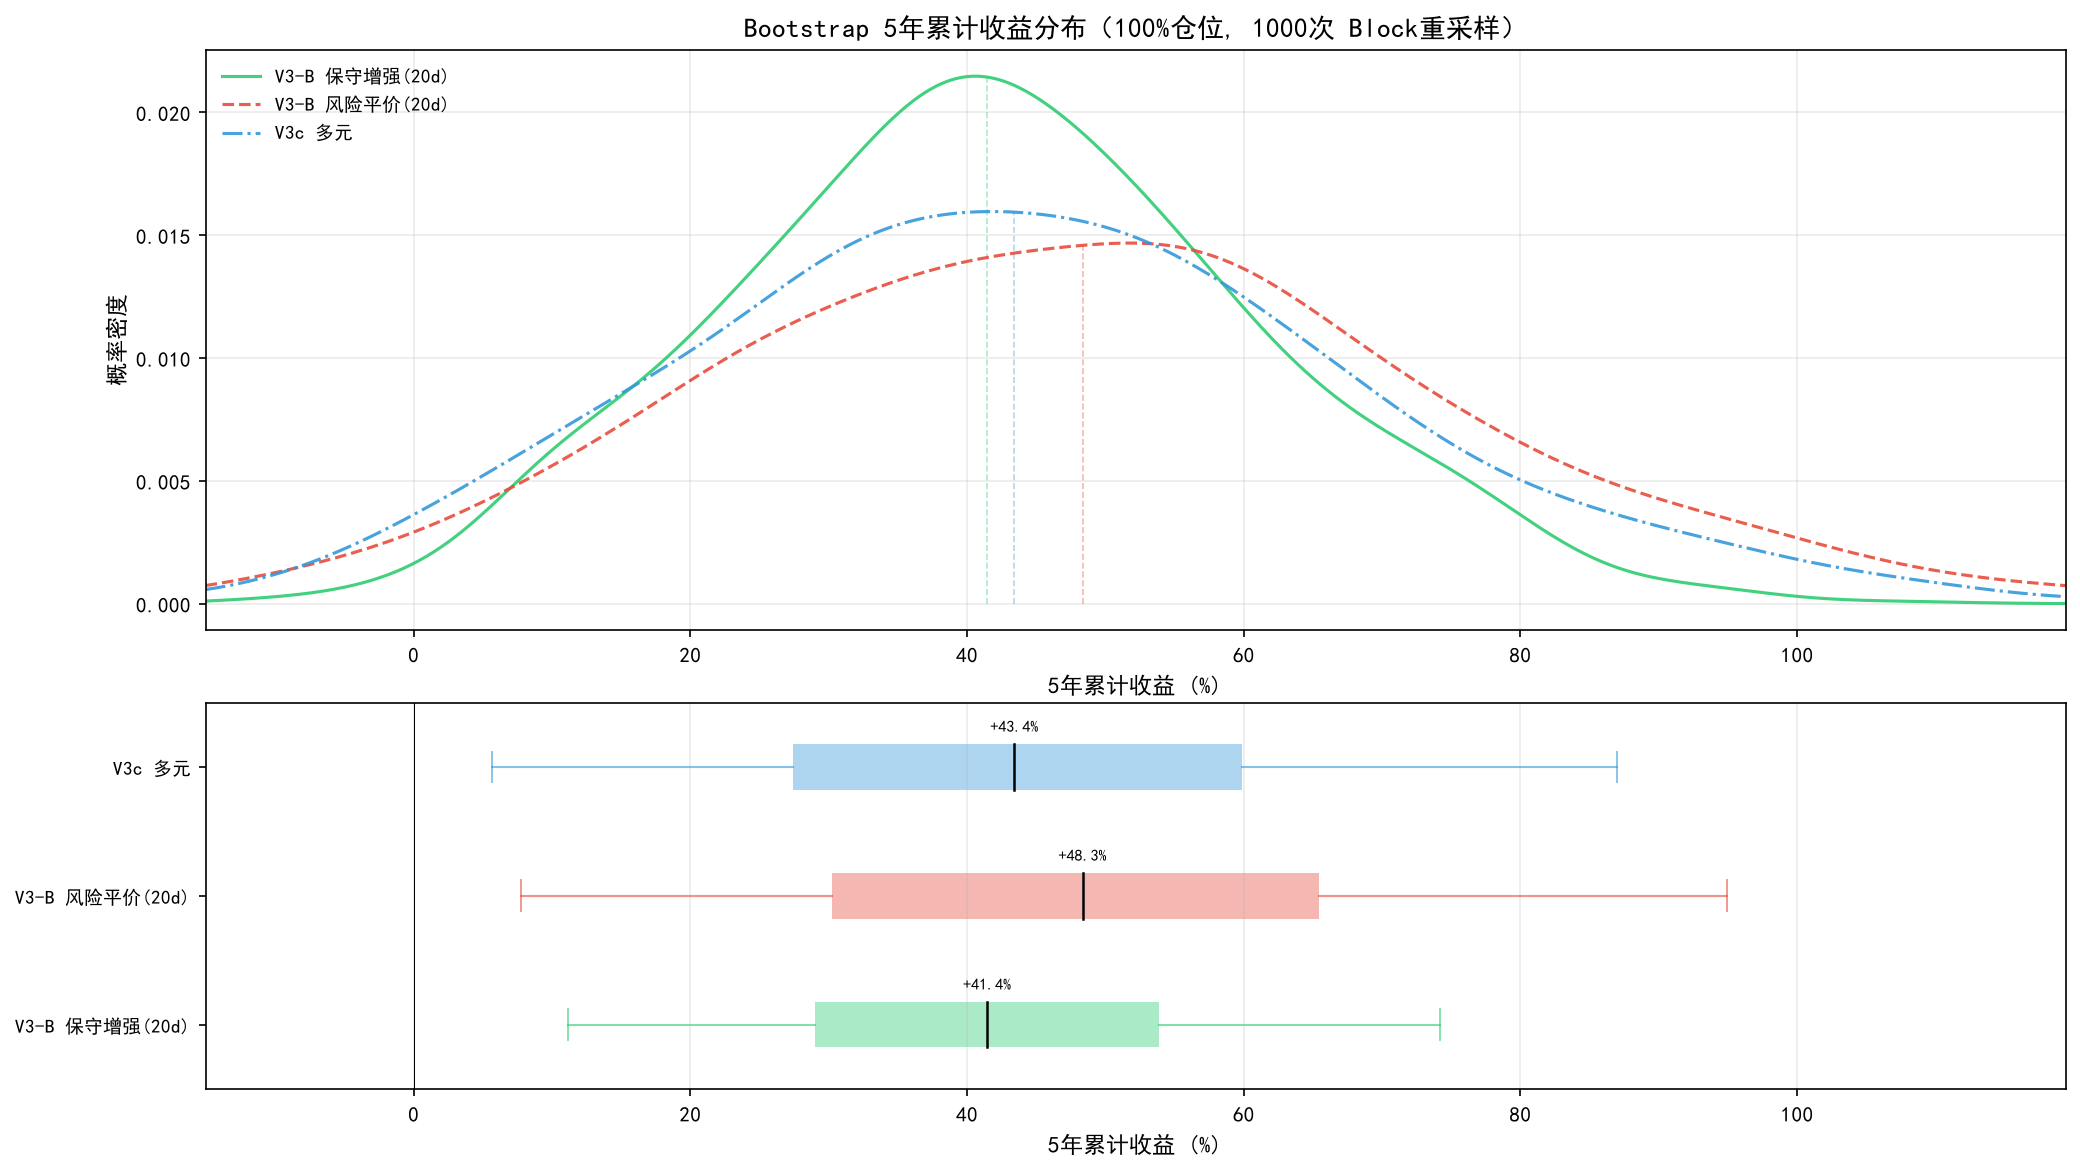
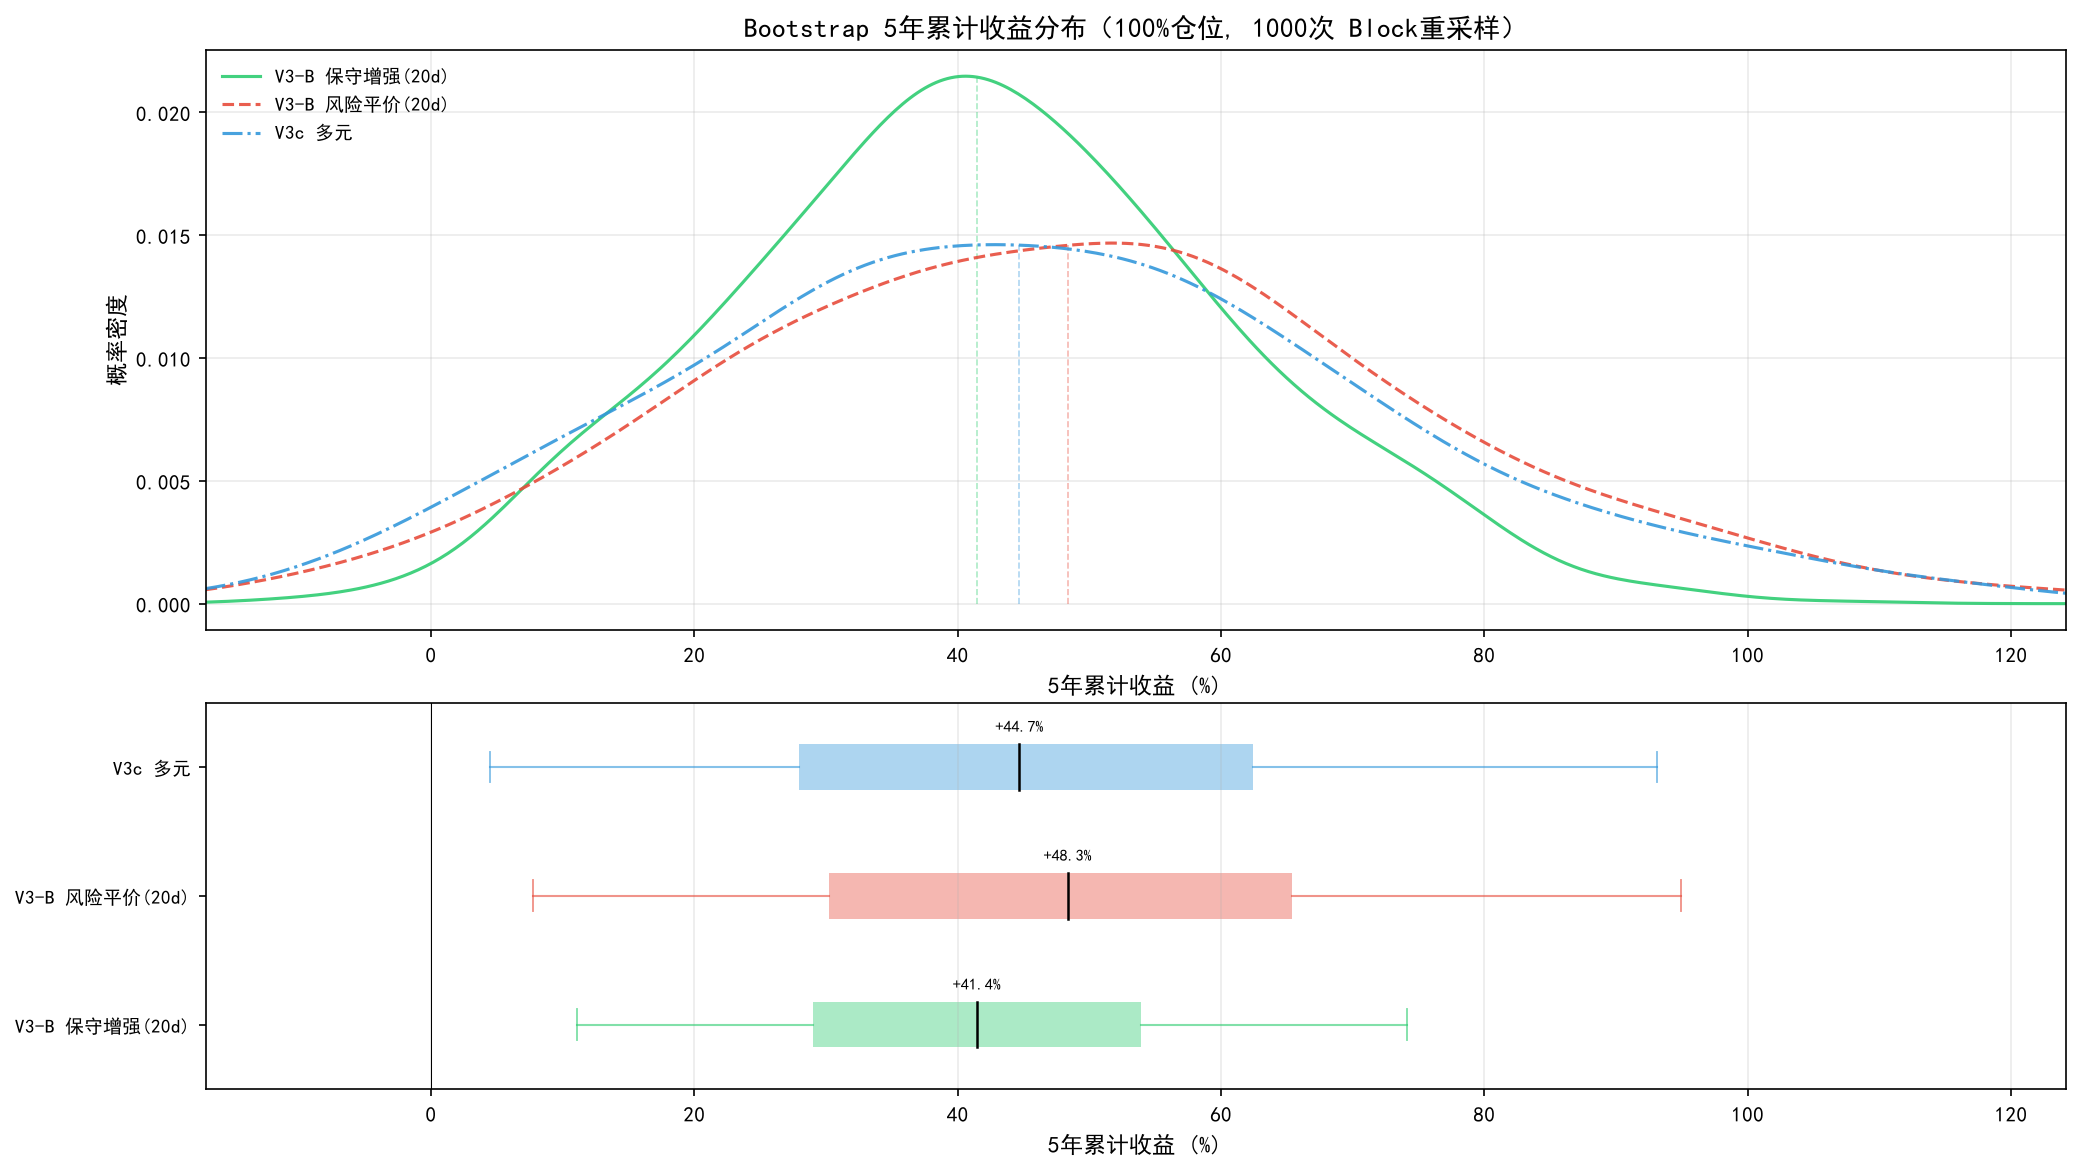
feat: V3c 逆波动率 60d→20d + max_w 0.30→0.25 — CAGR 9.29%→9.76%（Opus 设计，MDD 1:1 对称恶化，10.06% 压线方案否决）

diff --git a/docs/index.html b/docs/index.html
@@ -1623,9 +1623,10 @@ function downloadHTML() {
 
 
 
+
 <!-- ALLWEATHER_SYNC_START --><script>
 (function(){
-const D = {"V3-B 保守增强(20d)": {"100% RP": {"cum_return": 4.557159, "cagr": 0.082643, "vol": 0.036242, "mdd": -0.053127, "sharpe": 1.811231, "calmar": 1.555561, "final_nv": 5.5572}, "85% RP": {"cum_return": 3.548181, "cagr": 0.072646, "vol": 0.030806, "mdd": -0.04448, "sharpe": 1.806361, "calmar": 1.633238, "final_nv": 4.5482}, "70% RP": {"cum_return": 2.719997, "cagr": 0.062711, "vol": 0.025369, "mdd": -0.035775, "sharpe": 1.801793, "calmar": 1.752915, "final_nv": 3.72}, "动态": {"cum_return": 3.855891, "cagr": 0.075902, "vol": 0.032362, "mdd": -0.039691, "sharpe": 1.820113, "calmar": 1.912344, "final_nv": 4.8559}}, "V3-B 风险平价(20d)": {"100% RP": {"cum_return": 5.367113, "cagr": 0.089484, "vol": 0.049041, "mdd": -0.056805, "sharpe": 1.478027, "calmar": 1.575288, "final_nv": 6.3671}, "85% RP": {"cum_return": 4.113521, "cagr": 0.078481, "vol": 0.041685, "mdd": -0.046388, "sharpe": 1.474884, "calmar": 1.691834, "final_nv": 5.1135}, "70% RP": {"cum_return": 3.101907, "cagr": 0.06753, "vol": 0.034329, "mdd": -0.036177, "sharpe": 1.471935, "calmar": 1.866663, "final_nv": 4.1019}, "动态": {"cum_return": 4.270231, "cagr": 0.079989, "vol": 0.043353, "mdd": -0.056805, "sharpe": 1.452915, "calmar": 1.408131, "final_nv": 5.2702}}, "V3c 多元": {"100% RP": {"cum_return": 5.816626, "cagr": 0.092931, "vol": 0.045965, "mdd": -0.062787, "sharpe": 1.651919, "calmar": 1.480083, "final_nv": 6.8166}, "85% RP": {"cum_return": 4.416594, "cagr": 0.081359, "vol": 0.03907, "mdd": -0.052746, "sharpe": 1.64727, "calmar": 1.542486, "final_nv": 5.4166}, "70% RP": {"cum_return": 3.29966, "cagr": 0.069859, "vol": 0.032176, "mdd": -0.042627, "sharpe": 1.642845, "calmar": 1.638855, "final_nv": 4.2997}}, "_yearly": {"V3-B 保守增强(20d)": {"2005": 0.171943, "2006": 0.114891, "2007": 0.019321, "2008": 0.140551, "2009": 0.124558, "2010": 0.058963, "2011": 0.063884, "2012": 0.056069, "2013": -0.004883, "2014": 0.148338, "2015": 0.101585, "2016": 0.056621, "2017": 0.031086, "2018": 0.075159, "2019": 0.081299, "2020": 0.086555, "2021": 0.09837, "2022": 0.050342, "2023": 0.062217, "2024": 0.136445, "2025": 0.067619, "2026": 0.061539}, "V3-B 风险平价(20d)": {"2005": 0.173158, "2006": 0.202223, "2007": 0.03873, "2008": 0.090164, "2009": 0.199517, "2010": 0.052825, "2011": 0.029799, "2012": 0.022616, "2013": 0.010806, "2014": 0.175591, "2015": 0.108128, "2016": 0.04507, "2017": 0.036892, "2018": 0.077837, "2019": 0.087798, "2020": 0.094322, "2021": 0.121297, "2022": 0.048574, "2023": 0.071175, "2024": 0.115059, "2025": 0.089827, "2026": 0.069804}, "V3c 多元": {"2005": 0.19673, "2006": 0.178092, "2007": 0.034551, "2008": 0.179825, "2009": 0.196026, "2010": 0.052539, "2011": 0.041896, "2012": 0.049253, "2013": 0.008192, "2014": 0.170409, "2015": 0.095082, "2016": 0.051542, "2017": 0.032976, "2018": 0.077655, "2019": 0.078281, "2020": 0.089793, "2021": 0.115533, "2022": 0.04251, "2023": 0.058794, "2024": 0.126292, "2025": 0.079955, "2026": 0.08121}}, "_events": {"V3-B 保守增强(20d)": {"2008 GFC": 0.108117, "2015 股灾": -0.029055, "2016 熔断": -0.000618, "2017 债熊": 0.030098, "2018 大熊市": 0.044629, "2019 春季反弹": 0.031272, "2020 疫情": -0.030281, "2020-Q4 内需复苏": 0.009538, "2021-2 白马回撤": 0.007111, "2022 股债双杀": 0.048261, "2022 理财赎回": 0.006588, "2024 雪球危机": 0.023271, "2024-08 长债": 0.025626, "2024-924 反弹": 0.022485, "2025-Q1 长债": 0.005315, "2025-9 关税": 0.030282}, "V3-B 风险平价(20d)": {"2008 GFC": 0.065813, "2015 股灾": -0.037725, "2016 熔断": -0.003917, "2017 债熊": 0.033713, "2018 大熊市": 0.060255, "2019 春季反弹": 0.066382, "2020 疫情": -0.03211, "2020-Q4 内需复苏": 0.010181, "2021-2 白马回撤": 0.016257, "2022 股债双杀": 0.052742, "2022 理财赎回": 0.005107, "2024 雪球危机": 0.026172, "2024-08 长债": 0.008684, "2024-924 反弹": -0.010897, "2025-Q1 长债": 0.008591, "2025-9 关税": 0.036034}, "V3c 多元": {"2008 GFC": 0.163638, "2015 股灾": -0.043152, "2016 熔断": -0.005851, "2017 债熊": 0.031164, "2018 大熊市": 0.046572, "2019 春季反弹": 0.044387, "2020 疫情": -0.020351, "2020-Q4 内需复苏": 0.007391, "2021-2 白马回撤": 0.011597, "2022 股债双杀": 0.042696, "2022 理财赎回": 0.013697, "2024 雪球危机": 0.024508, "2024-08 长债": 0.025179, "2024-924 反弹": 0.020998, "2025-Q1 长债": 0.01739, "2025-9 关税": 0.030126}}, "_bootstrap": {"V3-B 保守增强(20d)": {"p5": 0.111155, "p25": 0.290412, "median": 0.414498, "p75": 0.538985, "p95": 0.741538, "annual_median": 0.071817, "loss_prob": 0.009}, "V3-B 风险平价(20d)": {"p5": 0.077417, "p25": 0.302263, "median": 0.483476, "p75": 0.654195, "p95": 0.949033, "annual_median": 0.082072, "loss_prob": 0.025}, "V3c 多元": {"p5": 0.056933, "p25": 0.274449, "median": 0.434169, "p75": 0.598705, "p95": 0.86983, "annual_median": 0.074781, "loss_prob": 0.025}}, "_regime": {"V3-B 保守增强(20d)": {"股牛+债牛": {"avg": 0.02918, "n": 34}, "股牛+债熊": {"avg": 0.009304, "n": 14}, "股熊+债牛": {"avg": 0.022209, "n": 29}, "股熊+债熊": {"avg": -0.00235, "n": 8}}, "V3-B 风险平价(20d)": {"股牛+债牛": {"avg": 0.029174, "n": 34}, "股牛+债熊": {"avg": 0.019409, "n": 14}, "股熊+债牛": {"avg": 0.019935, "n": 29}, "股熊+债熊": {"avg": 0.006701, "n": 8}}, "V3c 多元": {"股牛+债牛": {"avg": 0.031945, "n": 34}, "股牛+债熊": {"avg": 0.012698, "n": 14}, "股熊+债牛": {"avg": 0.023377, "n": 29}, "股熊+债熊": {"avg": 0.002848, "n": 8}}}};
+const D = {"V3-B 保守增强(20d)": {"100% RP": {"cum_return": 4.557159, "cagr": 0.082643, "vol": 0.036242, "mdd": -0.053127, "sharpe": 1.811231, "calmar": 1.555561, "final_nv": 5.5572}, "85% RP": {"cum_return": 3.548181, "cagr": 0.072646, "vol": 0.030806, "mdd": -0.04448, "sharpe": 1.806361, "calmar": 1.633238, "final_nv": 4.5482}, "70% RP": {"cum_return": 2.719997, "cagr": 0.062711, "vol": 0.025369, "mdd": -0.035775, "sharpe": 1.801793, "calmar": 1.752915, "final_nv": 3.72}, "动态": {"cum_return": 3.855891, "cagr": 0.075902, "vol": 0.032362, "mdd": -0.039691, "sharpe": 1.820113, "calmar": 1.912344, "final_nv": 4.8559}}, "V3-B 风险平价(20d)": {"100% RP": {"cum_return": 5.367113, "cagr": 0.089484, "vol": 0.049041, "mdd": -0.056805, "sharpe": 1.478027, "calmar": 1.575288, "final_nv": 6.3671}, "85% RP": {"cum_return": 4.113521, "cagr": 0.078481, "vol": 0.041685, "mdd": -0.046388, "sharpe": 1.474884, "calmar": 1.691834, "final_nv": 5.1135}, "70% RP": {"cum_return": 3.101907, "cagr": 0.06753, "vol": 0.034329, "mdd": -0.036177, "sharpe": 1.471935, "calmar": 1.866663, "final_nv": 4.1019}, "动态": {"cum_return": 4.270231, "cagr": 0.079989, "vol": 0.043353, "mdd": -0.056805, "sharpe": 1.452915, "calmar": 1.408131, "final_nv": 5.2702}}, "V3c 多元": {"100% RP": {"cum_return": 6.46871, "cagr": 0.097563, "vol": 0.051231, "mdd": -0.067459, "sharpe": 1.572556, "calmar": 1.446259, "final_nv": 7.4687}, "85% RP": {"cum_return": 4.858101, "cagr": 0.08529, "vol": 0.043546, "mdd": -0.056448, "sharpe": 1.568212, "calmar": 1.510948, "final_nv": 5.8581}, "70% RP": {"cum_return": 3.588929, "cagr": 0.073089, "vol": 0.035861, "mdd": -0.045343, "sharpe": 1.564057, "calmar": 1.611921, "final_nv": 4.5889}}, "_yearly": {"V3-B 保守增强(20d)": {"2005": 0.171943, "2006": 0.114891, "2007": 0.019321, "2008": 0.140551, "2009": 0.124558, "2010": 0.058963, "2011": 0.063884, "2012": 0.056069, "2013": -0.004883, "2014": 0.148338, "2015": 0.101585, "2016": 0.056621, "2017": 0.031086, "2018": 0.075159, "2019": 0.081299, "2020": 0.086555, "2021": 0.09837, "2022": 0.050342, "2023": 0.062217, "2024": 0.136445, "2025": 0.067619, "2026": 0.061539}, "V3-B 风险平价(20d)": {"2005": 0.173158, "2006": 0.202223, "2007": 0.03873, "2008": 0.090164, "2009": 0.199517, "2010": 0.052825, "2011": 0.029799, "2012": 0.022616, "2013": 0.010806, "2014": 0.175591, "2015": 0.108128, "2016": 0.04507, "2017": 0.036892, "2018": 0.077837, "2019": 0.087798, "2020": 0.094322, "2021": 0.121297, "2022": 0.048574, "2023": 0.071175, "2024": 0.115059, "2025": 0.089827, "2026": 0.069804}, "V3c 多元": {"2005": 0.168516, "2006": 0.199244, "2007": 0.055934, "2008": 0.131824, "2009": 0.258722, "2010": 0.063059, "2011": 0.035003, "2012": 0.043586, "2013": 0.009462, "2014": 0.17402, "2015": 0.096382, "2016": 0.044018, "2017": 0.042879, "2018": 0.076429, "2019": 0.074623, "2020": 0.111851, "2021": 0.118135, "2022": 0.047497, "2023": 0.054594, "2024": 0.154794, "2025": 0.095249, "2026": 0.085486}}, "_events": {"V3-B 保守增强(20d)": {"2008 GFC": 0.108117, "2015 股灾": -0.029055, "2016 熔断": -0.000618, "2017 债熊": 0.030098, "2018 大熊市": 0.044629, "2019 春季反弹": 0.031272, "2020 疫情": -0.030281, "2020-Q4 内需复苏": 0.009538, "2021-2 白马回撤": 0.007111, "2022 股债双杀": 0.048261, "2022 理财赎回": 0.006588, "2024 雪球危机": 0.023271, "2024-08 长债": 0.025626, "2024-924 反弹": 0.022485, "2025-Q1 长债": 0.005315, "2025-9 关税": 0.030282}, "V3-B 风险平价(20d)": {"2008 GFC": 0.065813, "2015 股灾": -0.037725, "2016 熔断": -0.003917, "2017 债熊": 0.033713, "2018 大熊市": 0.060255, "2019 春季反弹": 0.066382, "2020 疫情": -0.03211, "2020-Q4 内需复苏": 0.010181, "2021-2 白马回撤": 0.016257, "2022 股债双杀": 0.052742, "2022 理财赎回": 0.005107, "2024 雪球危机": 0.026172, "2024-08 长债": 0.008684, "2024-924 反弹": -0.010897, "2025-Q1 长债": 0.008591, "2025-9 关税": 0.036034}, "V3c 多元": {"2008 GFC": 0.160741, "2015 股灾": -0.054204, "2016 熔断": -0.006506, "2017 债熊": 0.040276, "2018 大熊市": 0.047133, "2019 春季反弹": 0.051029, "2020 疫情": -0.024429, "2020-Q4 内需复苏": 0.009352, "2021-2 白马回撤": 0.013484, "2022 股债双杀": 0.045918, "2022 理财赎回": 0.016303, "2024 雪球危机": 0.026667, "2024-08 长债": 0.037367, "2024-924 反弹": 0.03669, "2025-Q1 长债": 0.018643, "2025-9 关税": 0.040797}}, "_bootstrap": {"V3-B 保守增强(20d)": {"p5": 0.111155, "p25": 0.290412, "median": 0.414498, "p75": 0.538985, "p95": 0.741538, "annual_median": 0.071817, "loss_prob": 0.009}, "V3-B 风险平价(20d)": {"p5": 0.077417, "p25": 0.302263, "median": 0.483476, "p75": 0.654195, "p95": 0.949033, "annual_median": 0.082072, "loss_prob": 0.025}, "V3c 多元": {"p5": 0.044519, "p25": 0.279242, "median": 0.446857, "p75": 0.624361, "p95": 0.931168, "annual_median": 0.076676, "loss_prob": 0.03}}, "_regime": {"V3-B 保守增强(20d)": {"股牛+债牛": {"avg": 0.02918, "n": 34}, "股牛+债熊": {"avg": 0.009304, "n": 14}, "股熊+债牛": {"avg": 0.022209, "n": 29}, "股熊+债熊": {"avg": -0.00235, "n": 8}}, "V3-B 风险平价(20d)": {"股牛+债牛": {"avg": 0.029174, "n": 34}, "股牛+债熊": {"avg": 0.019409, "n": 14}, "股熊+债牛": {"avg": 0.019935, "n": 29}, "股熊+债熊": {"avg": 0.006701, "n": 8}}, "V3c 多元": {"股牛+债牛": {"avg": 0.033837, "n": 34}, "股牛+债熊": {"avg": 0.019775, "n": 14}, "股熊+债牛": {"avg": 0.020745, "n": 29}, "股熊+债熊": {"avg": 0.003863, "n": 8}}}};
 
 function pct(v, d) { return (v*100).toFixed(d||2)+'%'; }
 function ps(v, d) { var s=(v*100).toFixed(d||2)+'%'; return (v>=0?'+':'')+s; }
@@ -2083,6 +2084,7 @@ if (T) {
 console.log('data.json sync: '+Object.keys(D).length+' strategies loaded');
 })();
 </script><!-- ALLWEATHER_SYNC_END -->
+
 
 
 

diff --git a/allweather/config.py b/allweather/config.py
@@ -192,8 +192,8 @@ STRATEGY_PARAMS = {
     },
     "v3c": {
         "method": "inverse_vol",
-        "window": 60,
-        "max_w": 0.30,
+        "window": 20,    # 60→20: 更快响应波动率下降（Opus 设计，CAGR +0.47pp）
+        "max_w": 0.25,   # 0.30→0.25: 压制 credit 集中（max_w 与 window 交互最优，MDD 1:1 对称）
         "min_w": 0.03,
     },
 }
@@ -202,6 +202,6 @@ STRATEGY_PARAMS = {
 PORTFOLIO_TAGS = {
     "V3-B 保守增强(20d)":  {"stars": "★★★", "label": "保守增强 — 逆波动率 20d + nonferr(75d) + HS300 AND抄底，max_w=0.25"},
     "V3-B 风险平价(20d)":  {"stars": "★★★", "label": "学院派 — 4桶等权 HRP + nonferr(75d) + Gold(75d) + SP500(75d) + HS300(30d) + HS300 AND抄底"},
-    "V3c 多元":            {"stars": "★★★", "label": "V3c 多元 — 6资产逆波动率60d + nonferr(75d) + gold(75d) + SP500(75d) + HS300 AND抄底"},
+    "V3c 多元":            {"stars": "★★★", "label": "V3c 多元 — 6资产逆波动率20d + nonferr(75d) + gold(75d) + SP500(75d) + HS300 AND抄底"},
 }
 

diff --git a/README.template.md b/README.template.md
@@ -25,9 +25,9 @@
 |------|:----:|:----:|:------:|:--------:|:-----:|--------|
 | **V3-B 保守增强(20d)** | 保守增强 | **{BCON_CAGR}** | {BCON_VOL} | **{BCON_MDD}** | **{BCON_SHARPE}** | 逆波动率 20d + nonferr(75d) + HS300 AND 抄底 |
 | **V3-B 风险平价(20d)** | 学院派 | {BRP_CAGR} | {BRP_VOL} | {BRP_MDD} | {BRP_SHARPE} | 4 桶等权 HRP + nonferr/gold/sp500/hs300 趋势 + 抄底 + 波动率控制 |
-| **V3c 多元** | 多元全天候 | **{V3C_CAGR}** | {V3C_VOL} | {V3C_MDD} | {V3C_SHARPE} | 6 资产逆波动率 60d + {V3C_TREND_DESC} + HS300 AND 抄底 |
+| **V3c 多元** | 多元全天候 | **{V3C_CAGR}** | {V3C_VOL} | {V3C_MDD} | {V3C_SHARPE} | 6 资产逆波动率 20d + {V3C_TREND_DESC} + HS300 AND 抄底 |
 
-> V3-B RP 四重趋势过滤：nonferr(75d) + gold(75d) + sp500(75d) + hs300(30d)；V3c 三重趋势过滤：nonferr(75d) + gold(75d) + sp500(75d)。不含 bond_10y（CAGR +1.43pp, Sharpe -0.02）。V3c 多元 6 资产逆波动率 60d，同样不含 bond_10y。三策略均含原油（WTI 75d 趋势过滤，默认集成）。
+> V3-B RP 四重趋势过滤：nonferr(75d) + gold(75d) + sp500(75d) + hs300(30d)；V3c 三重趋势过滤：nonferr(75d) + gold(75d) + sp500(75d)。不含 bond_10y（CAGR +1.43pp, Sharpe -0.02）。V3c 多元 6 资产逆波动率 20d，同样不含 bond_10y。三策略均含原油（WTI 75d 趋势过滤，默认集成）。
 
 | | 定位 | CAGR | MDD | 核心约束 | 趋势过滤 | 负收益年 |
 |--|:--:|:---:|:---:|:--------:|:--------:|:--------:|

diff --git a/README-zh.md b/README-zh.md
@@ -25,9 +25,9 @@
 |------|:----:|:----:|:------:|:--------:|:-----:|--------|
 | **V3-B 保守增强(20d)** | 保守增强 | **8.26%** | 3.62% | **-5.31%** | **1.81** | 逆波动率 20d + nonferr(75d) + HS300 AND 抄底 |
 | **V3-B 风险平价(20d)** | 学院派 | 8.95% | 4.90% | -5.68% | 1.48 | 4 桶等权 HRP + nonferr/gold/sp500/hs300 趋势 + 抄底 + 波动率控制 |
-| **V3c 多元** | 多元全天候 | **9.29%** | 4.60% | -6.28% | 1.65 | 6 资产逆波动率 60d + nonferr/gold/sp500 趋势(75d) + HS300 AND 抄底 |
+| **V3c 多元** | 多元全天候 | **9.76%** | 5.12% | -6.75% | 1.57 | 6 资产逆波动率 20d + nonferr/gold/sp500 趋势(75d) + HS300 AND 抄底 |
 
-> V3-B RP 四重趋势过滤：nonferr(75d) + gold(75d) + sp500(75d) + hs300(30d)；V3c 三重趋势过滤：nonferr(75d) + gold(75d) + sp500(75d)。不含 bond_10y（CAGR +1.43pp, Sharpe -0.02）。V3c 多元 6 资产逆波动率 60d，同样不含 bond_10y。三策略均含原油（WTI 75d 趋势过滤，默认集成）。
+> V3-B RP 四重趋势过滤：nonferr(75d) + gold(75d) + sp500(75d) + hs300(30d)；V3c 三重趋势过滤：nonferr(75d) + gold(75d) + sp500(75d)。不含 bond_10y（CAGR +1.43pp, Sharpe -0.02）。V3c 多元 6 资产逆波动率 20d，同样不含 bond_10y。三策略均含原油（WTI 75d 趋势过滤，默认集成）。
 
 | | 定位 | CAGR | MDD | 核心约束 | 趋势过滤 | 负收益年 |
 |--|:--:|:---:|:---:|:--------:|:--------:|:--------:|

diff --git a/README.md b/README.md
@@ -25,7 +25,7 @@ Online docs: [https://idealauror.github.io/all-weather-portfolio/](https://ideal
 |----------|:-----:|:----:|:---:|:------:|:-----:|-----------|
 | **V3-B Conservative(20d)** | Conservative Enhanced | **8.26%** | 3.62% | **-5.31%** | **1.81** | Inverse vol 20d + nonferr(75d) + HS300 AND dip |
 | **V3-B Risk Parity(20d)** | Academic | 8.95% | 4.90% | -5.68% | 1.48 | 4-bucket equal HRP + nonferr/gold/sp500/hs300 trends + dip + target vol |
-| **V3c Multi-Asset** | All-Weather | **9.29%** | 4.60% | -6.28% | 1.65 | 6-asset inverse vol 60d + nonferr/gold/sp500 trend(75d) + HS300 AND dip |
+| **V3c Multi-Asset** | All-Weather | **9.29%** | 4.60% | -6.28% | 1.65 | 6-asset inverse vol 20d + nonferr/gold/sp500 trend(75d) + HS300 AND dip |
 
 > V3-B RP 4 trend filters: nonferr(75d) + gold(75d) + sp500(75d) + hs300(30d); V3c 3 trend filters: nonferr(75d) + gold(75d) + sp500(75d). Both exclude bond_10y. All three strategies include crude oil (WTI 75d trend filter, default).
 
